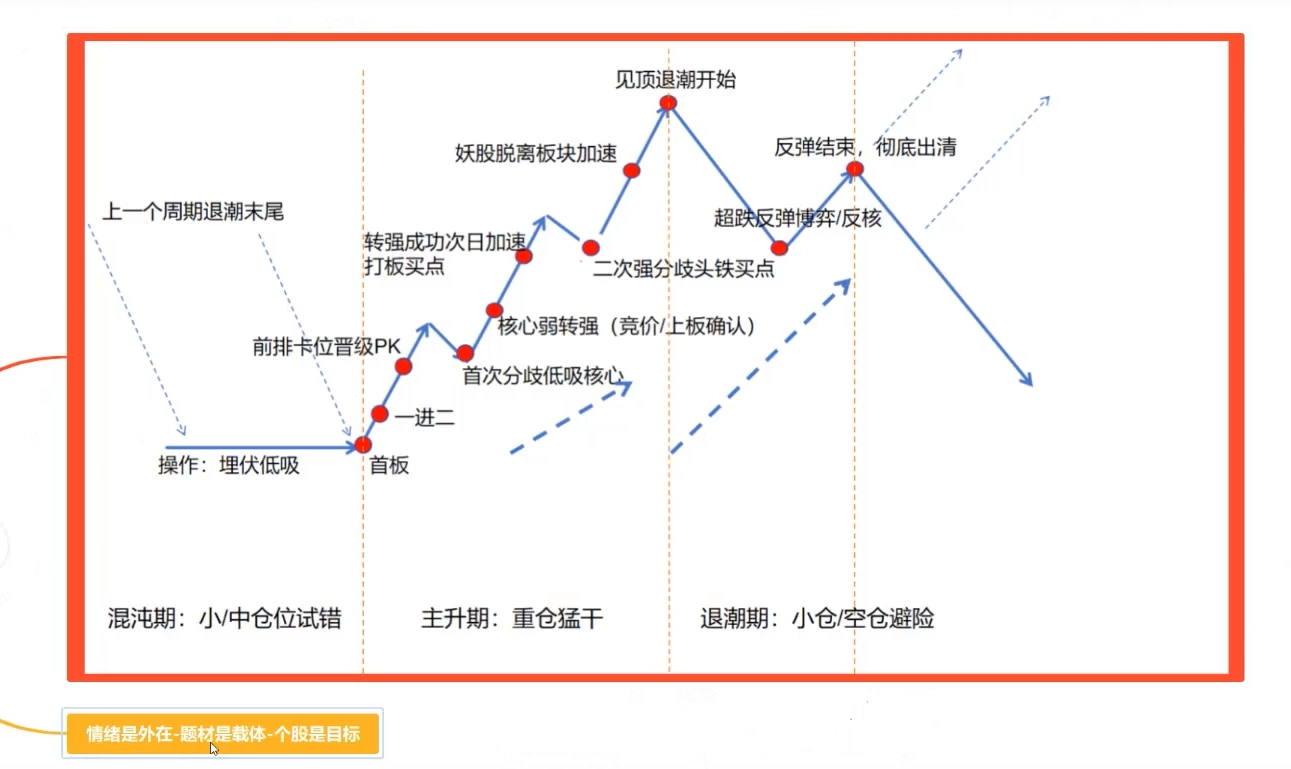
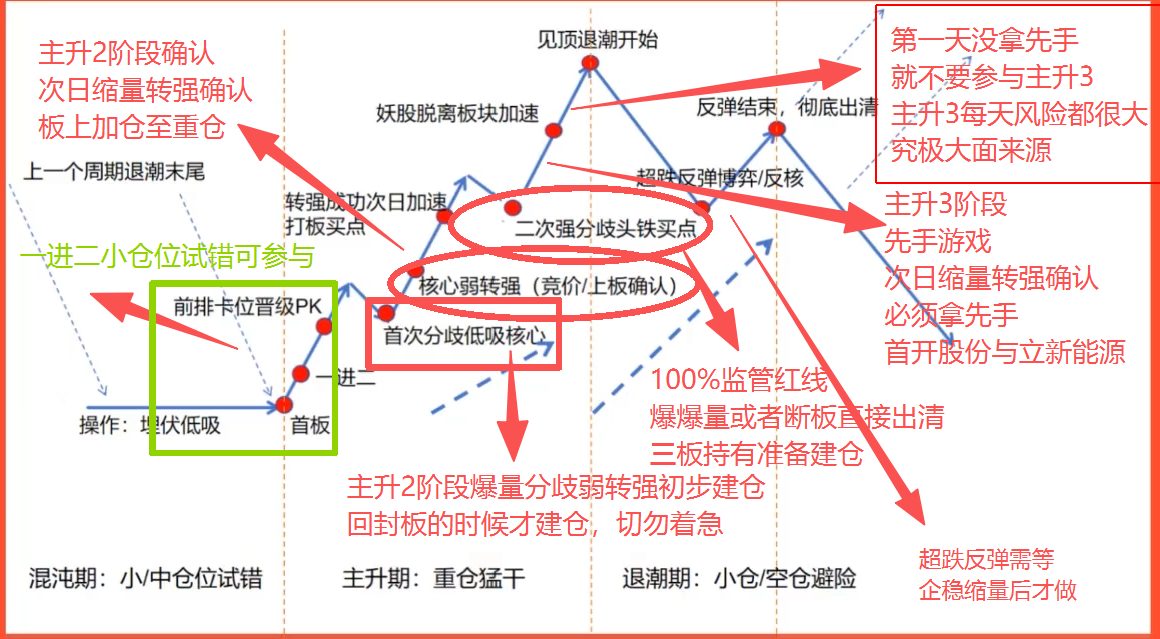
Move annotated dragon path image to classification lead

Changed region(s): [[0.0, 0.0, 1.0, 1.0]]

diff --git a/index.html b/index.html
@@ -158,6 +158,13 @@
       </section>
 
       <section class="classification-entry section" id="classification" aria-labelledby="classification-title">
+        <figure class="classification-hero-visual">
+          <img src="./assets/images/dragon-cycle-path.png" alt="龙头主升前置判断路径图" loading="eager" decoding="async" fetchpriority="high" />
+          <figcaption>
+            <strong>龙头主升路径总图</strong>
+            <span>先看情绪所在周期，再判断题材与个股位置：混沌期小仓试错，主升期缩量转强确认，退潮期小仓或空仓避险。</span>
+          </figcaption>
+        </figure>
         <div class="section-head">
           <p class="label">龙头主升前置判断</p>
           <h2 id="classification-title">先分题材，再定龙，再谈切换</h2>
@@ -387,14 +394,6 @@
               <figcaption>
                 <strong>接力口诀</strong>
                 <span>把龙头战法里的连板高度、接力节奏、弱转强和情绪周期放在一起记。</span>
-              </figcaption>
-            </figure>
-
-            <figure class="dragon-visual-card cycle-map">
-              <img src="./assets/images/dragon-cycle-path.png" alt="混沌期、主升期、退潮期的龙头路径图" loading="lazy" decoding="async" />
-              <figcaption>
-                <strong>情绪周期路径图</strong>
-                <span>从上一周期退潮末尾到主升、见顶、反弹和退潮，把仓位节奏和龙头位置一起对齐。</span>
               </figcaption>
             </figure>
 

diff --git a/assets/css/styles.css b/assets/css/styles.css
@@ -646,6 +646,46 @@ svg {
     rgba(255, 255, 255, 0.86);
 }
 
+.classification-hero-visual {
+  margin: 18px 18px 0;
+  overflow-x: auto;
+  overflow-y: hidden;
+  background:
+    linear-gradient(180deg, rgba(223, 44, 44, 0.08), rgba(255, 255, 255, 0.96) 26%),
+    var(--surface);
+  border: 2px solid rgba(223, 44, 44, 0.26);
+  border-radius: var(--radius);
+  box-shadow: 0 22px 48px rgba(20, 31, 28, 0.12);
+}
+
+.classification-hero-visual img {
+  display: block;
+  width: 100%;
+  min-width: 760px;
+  object-fit: contain;
+  background: #fff;
+}
+
+.classification-hero-visual figcaption {
+  display: flex;
+  justify-content: space-between;
+  gap: 14px;
+  padding: 12px 14px;
+  background: rgba(255, 255, 255, 0.94);
+  border-top: 1px solid rgba(223, 44, 44, 0.16);
+}
+
+.classification-hero-visual figcaption strong {
+  color: var(--red);
+  font-size: 15px;
+}
+
+.classification-hero-visual figcaption span {
+  max-width: 76ch;
+  color: var(--muted);
+  font-size: 13px;
+}
+
 .classification-card {
   position: relative;
   display: grid;
@@ -1414,10 +1454,6 @@ svg {
   max-height: 620px;
   object-fit: contain;
   background: #fff;
-}
-
-.dragon-visual-card.cycle-map img {
-  max-height: 420px;
 }
 
 .dragon-visual-card figcaption {
